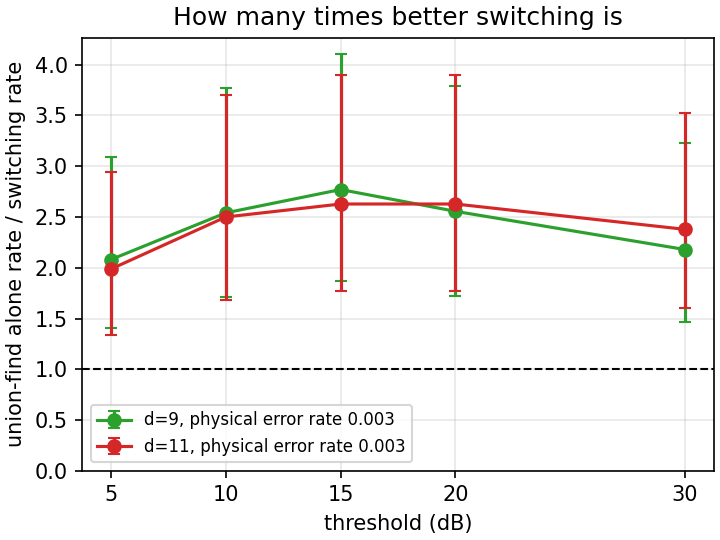
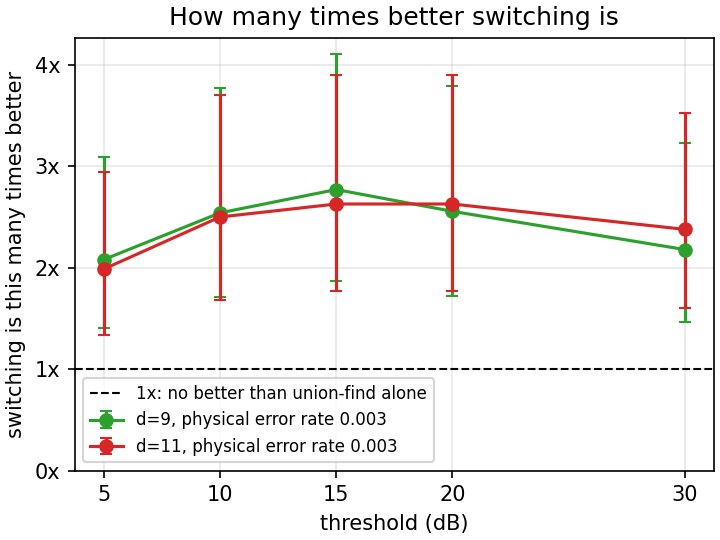
experiments: label the switching improvement axis in plain words
The ratio axis read as a formula; it now reads as how many times better
switching is, ticked 1x to 4x, with the 1x line labelled.

diff --git a/experiments/threshold_sweep/plot.py b/experiments/threshold_sweep/plot.py
@@ -22,6 +22,7 @@ import pathlib
 import sys
 
 import matplotlib.pyplot as pyplot
+import matplotlib.ticker as ticker
 
 DISTANCES = [9, 11]
 ERROR_RATES = [0.001, 0.003]
@@ -180,7 +181,7 @@ def improvement_figure(
     """
     figure, axis = new_figure(
         "How many times better switching is",
-        "union-find alone rate / switching rate",
+        "switching is this many times better",
     )
     for label, colour, series_rows in series_of(rows, IMPROVEMENT_RATES):
         points = improvement_points(series_rows, baseline_rows)
@@ -196,8 +197,13 @@ def improvement_figure(
             color=colour,
             label=label,
         )
-    axis.axhline(1, color="black", linestyle="--", linewidth=1)
+    axis.axhline(
+        1, color="black", linestyle="--", linewidth=1,
+        label="1x: no better than union-find alone",
+    )
     axis.set_ylim(bottom=0)
+    axis.yaxis.set_major_locator(ticker.MultipleLocator(1))
+    axis.yaxis.set_major_formatter(ticker.FormatStrFormatter("%gx"))
     save(figure, axis, path)
 
 
